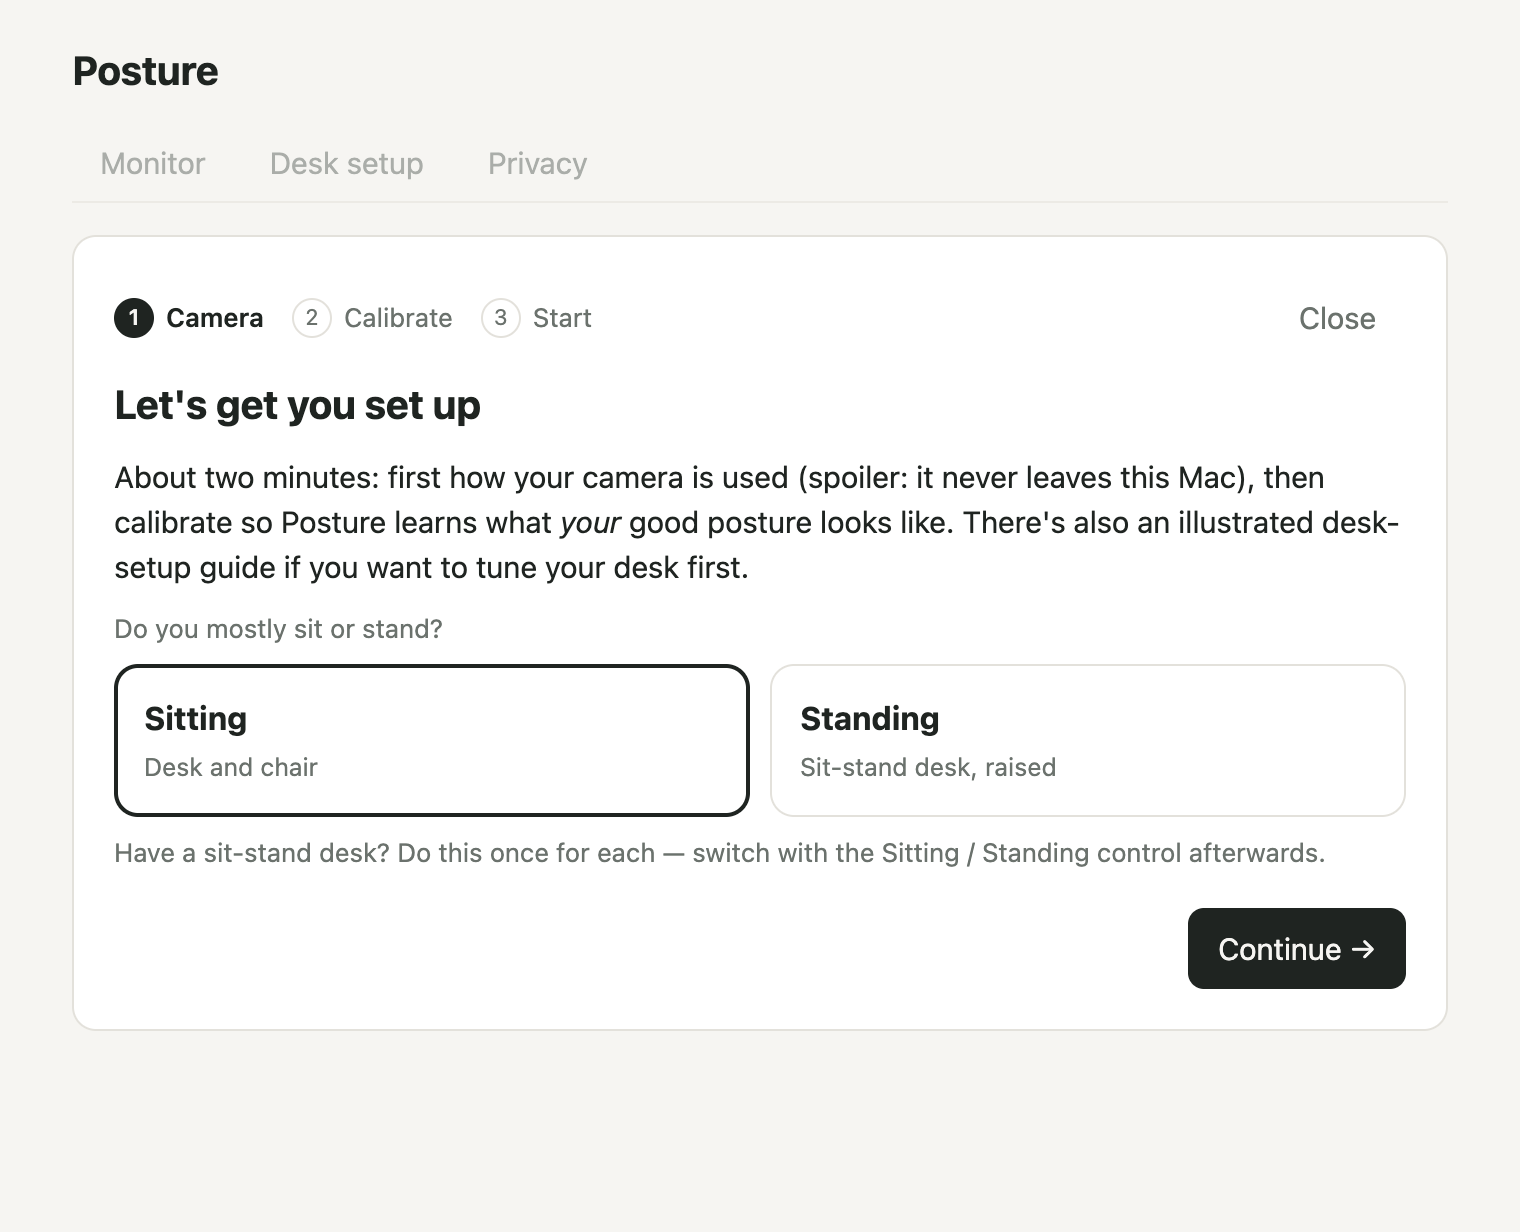
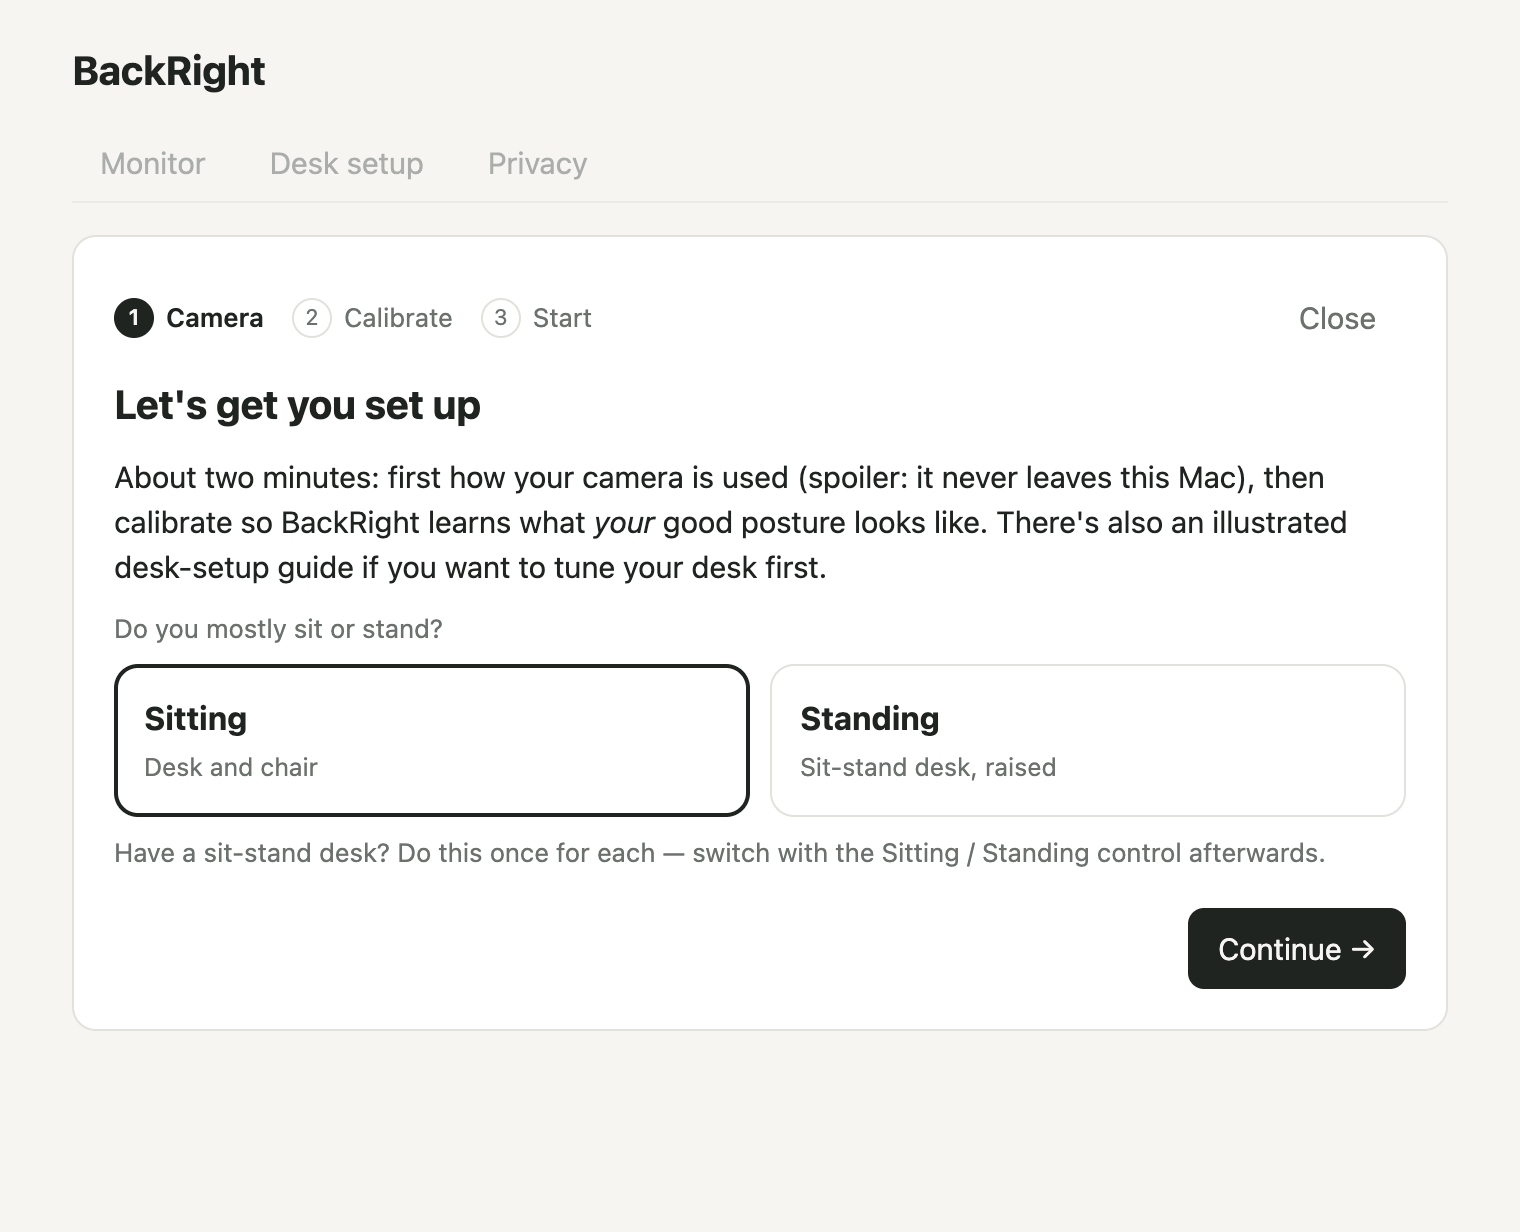
Rename the app to BackRight
Product name, window/tray/menu text, onboarding copy, bundle id (com.lylebaumgarten.backright),
BackRight.app, settings folder, scripts, docs and screenshots. Status words ("Good posture",
"Posture slipping") and the internal window.posture API are unchanged. Adds naming-consistency tests.

Changed region(s): [[0.0928, 0.401, 0.9276, 0.4935], [0.0618, 0.0308, 0.1855, 0.0925]]

diff --git a/src/renderer/onboarding.js b/src/renderer/onboarding.js
@@ -82,7 +82,7 @@ export function createWizard(root, api) {
     else if (id === "welcome") {
       html = `${top()}
         <h2>Let's get you set up</h2>
-        <p class="lead">About two minutes: first how your camera is used (spoiler: it never leaves this Mac), then calibrate so Posture learns what <i>your</i> good posture looks like. There's also an illustrated desk-setup guide if you want to tune your desk first.</p>
+        <p class="lead">About two minutes: first how your camera is used (spoiler: it never leaves this Mac), then calibrate so BackRight learns what <i>your</i> good posture looks like. There's also an illustrated desk-setup guide if you want to tune your desk first.</p>
         <p class="hint">Do you mostly sit or stand?</p>
         <div class="choice" role="group">
           <button data-mode="sit" class="${mode === "sit" ? "on" : ""}"><b>Sitting</b><small>Desk and chair</small></button>
@@ -97,7 +97,7 @@ export function createWizard(root, api) {
       html = `${top()}
         <p class="eyebrow">Before we use the camera</p>
         <h2>Your camera stays on this Mac</h2>
-        <p class="lead">Posture watches your head and shoulders through the webcam. Here's exactly what happens to the video:</p>
+        <p class="lead">BackRight watches your head and shoulders through the webcam. Here's exactly what happens to the video:</p>
         <ul class="promises">
           <li><span class="tick">✓</span><div><b>Analysed here, never uploaded.</b> A small pose model runs inside this app. There's no account and no server.</div></li>
           <li><span class="tick">✓</span><div><b>Never saved.</b> Each frame is checked in memory, then thrown away. Only a few numbers (like head height) are kept for a moment.</div></li>

diff --git a/src/main/tray-state.js b/src/main/tray-state.js
@@ -20,13 +20,13 @@ const ICON = { warn: "trayWarn", active: "trayActive", snooze: "traySnoozeTempla
 
 function trayText(state, { monitoring, calibrated, idle, snoozeUntilLabel = "" }) {
   switch (state) {
-    case "warn": return { label: "Posture slipping", tip: "Posture — slipping, sit tall" };
-    case "active": return { label: "Monitoring", tip: "Posture — monitoring" };
-    case "snooze": return { label: `Nudges snoozed until ${snoozeUntilLabel}`, tip: `Posture — nudges snoozed until ${snoozeUntilLabel}` };
+    case "warn": return { label: "Posture slipping", tip: "BackRight — slipping, sit tall" };
+    case "active": return { label: "Monitoring", tip: "BackRight — monitoring" };
+    case "snooze": return { label: `Nudges snoozed until ${snoozeUntilLabel}`, tip: `BackRight — nudges snoozed until ${snoozeUntilLabel}` };
     default:
-      if (idle && monitoring) return { label: "Paused — screen locked", tip: "Posture — paused while the screen is locked" };
-      if (monitoring && !calibrated) return { label: "Calibrate to start", tip: "Posture — calibrate to start" };
-      return { label: "Not monitoring", tip: "Posture — not monitoring" };
+      if (idle && monitoring) return { label: "Paused — screen locked", tip: "BackRight — paused while the screen is locked" };
+      if (monitoring && !calibrated) return { label: "Calibrate to start", tip: "BackRight — calibrate to start" };
+      return { label: "Not monitoring", tip: "BackRight — not monitoring" };
   }
 }
 

diff --git a/src/main/main.js b/src/main/main.js
@@ -181,7 +181,7 @@ function snooze(minutes) {
 // ---- panel (control window; also hosts detection, so it must keep running when hidden) ----
 function createPanel() {
   panel = new BrowserWindow({
-    width: 760, height: 820, show: false, title: "Posture", backgroundColor: "#f6f5f2",
+    width: 760, height: 820, show: false, title: "BackRight", backgroundColor: "#f6f5f2",
     webPreferences: { preload: path.join(__dirname, "preload.js"), contextIsolation: true, sandbox: true, backgroundThrottling: false },
   });
   panel.loadURL("app://local/index.html");
@@ -259,7 +259,7 @@ function rebuildTray() {
     { label: "Sitting", type: "radio", checked: settings.mode === "sit", click: () => setMode("sit") },
     { label: "Standing", type: "radio", checked: settings.mode === "stand", click: () => setMode("stand") },
     { type: "separator" },
-    { label: "Open Posture…", click: showPanel },
+    { label: "Open BackRight…", click: showPanel },
     { label: "Quit", click: () => { app.isQuitting = true; app.quit(); } },
   ]));
 }

diff --git a/src/renderer/pill.html b/src/renderer/pill.html
@@ -2,7 +2,7 @@
 <html>
 <head>
 <meta charset="utf-8">
-<title>Posture reminder</title>
+<title>BackRight reminder</title>
 <style>
   html, body { margin:0; height:100%; background:transparent; overflow:hidden; user-select:none; -webkit-user-select:none;
                font:600 14px/1 system-ui,-apple-system,"Segoe UI",sans-serif; }
@@ -21,7 +21,7 @@
 <div id="pill">
   <span class="msg">Sit tall — head back, shoulders down</span>
   <button id="pause" title="Stop monitoring (camera off)">Pause</button>
-  <button id="settings" class="primary" title="Open Posture settings">Settings</button>
+  <button id="settings" class="primary" title="Open BackRight settings">Settings</button>
 </div>
 <script type="module" src="pill.js"></script>
 </body>

diff --git a/src/renderer/index.html b/src/renderer/index.html
@@ -3,13 +3,13 @@
 <head>
 <meta charset="utf-8">
 <meta name="viewport" content="width=device-width, initial-scale=1">
-<title>Posture</title>
+<title>BackRight</title>
 <link rel="stylesheet" href="style.css">
 </head>
 <body>
 <main>
   <header>
-    <h1>Posture</h1>
+    <h1>BackRight</h1>
     <div class="seg" id="modeSeg" role="group" aria-label="Posture mode">
       <button data-mode="sit">Sitting</button>
       <button data-mode="stand">Standing</button>

diff --git a/src/renderer/overlay.html b/src/renderer/overlay.html
@@ -2,7 +2,7 @@
 <html>
 <head>
 <meta charset="utf-8">
-<title>Posture overlay</title>
+<title>BackRight overlay</title>
 <style>
   html, body { margin:0; height:100%; background:transparent; overflow:hidden; pointer-events:none; user-select:none; }
   /* Each overlay window is one thin strip of the screen edge. #glow is sized to the *whole* screen and offset

diff --git a/README.md b/README.md
@@ -1,6 +1,6 @@
-# Posture
+# BackRight
 
-A small desktop app that watches your posture through the webcam and gives a faint, screen-wide nudge when you slip. Works for sitting and standing desks. **Everything runs on your computer — no images are stored or sent anywhere.**
+**BackRight** is a small desktop app that watches your posture through the webcam and gives a faint, screen-wide nudge when you slip. Works for sitting and standing desks. **Everything runs on your computer — no images are stored or sent anywhere.**
 
 > Status: early prototype (v0.1). Electron, macOS-first; Windows should work but is untested.
 
@@ -46,7 +46,7 @@ npm install     # also copies the MediaPipe runtime and downloads the pose model
 npm start
 ```
 
-**On macOS, install it as a real app:** `npm run app` builds a standalone `Posture.app` (own name, icon and camera permission, code bundled inside), installs it to `~/Applications`, and launches it. After that it lives in the Dock, Launchpad and Spotlight — closing the window leaves it running, and clicking the Dock icon brings the window back. Right-click its Dock icon → Options → Keep in Dock to pin it. `npm run dev:app` does the same without installing (runs `build/Posture.app`), `-- --debug` opens a DevTools port, `-- --rebuild` recreates the bundle (macOS will ask for camera access again). `npm start` runs the plain Electron binary, which macOS blames for camera access — avoid it for camera testing.
+**On macOS, install it as a real app:** `npm run app` builds a standalone `BackRight.app` (own name, icon and camera permission, code bundled inside), installs it to `~/Applications`, and launches it. After that it lives in the Dock, Launchpad and Spotlight — closing the window leaves it running, and clicking the Dock icon brings the window back. Right-click its Dock icon → Options → Keep in Dock to pin it. `npm run dev:app` does the same without installing (runs `build/BackRight.app`), `-- --debug` opens a DevTools port, `-- --rebuild` recreates the bundle (macOS will ask for camera access again). `npm start` runs the plain Electron binary, which macOS blames for camera access — avoid it for camera testing.
 
 Re-run `npm run app` after code changes to refresh the installed copy.
 
@@ -103,4 +103,4 @@ test/           Unit tests for the posture maths and privacy guardrails
 
 ## License
 
-MIT — see [LICENSE](LICENSE). Posture bundles Electron (MIT), MediaPipe Tasks Vision (Apache-2.0) and Google's BlazePose GHUM pose model (Apache-2.0); see [THIRD_PARTY_NOTICES.md](THIRD_PARTY_NOTICES.md).
+MIT — see [LICENSE](LICENSE). BackRight bundles Electron (MIT), MediaPipe Tasks Vision (Apache-2.0) and Google's BlazePose GHUM pose model (Apache-2.0); see [THIRD_PARTY_NOTICES.md](THIRD_PARTY_NOTICES.md).

diff --git a/THIRD_PARTY_NOTICES.md b/THIRD_PARTY_NOTICES.md
@@ -1,6 +1,6 @@
 # Third-party notices
 
-Posture's own code is MIT-licensed (see `LICENSE`). It is built on, and ships with, the following open-source
+BackRight's own code is MIT-licensed (see `LICENSE`). It is built on, and ships with, the following open-source
 components. Each remains under its own license.
 
 ## Electron — MIT
@@ -20,5 +20,5 @@ Google. Model card: https://storage.googleapis.com/mediapipe-assets/Model%20Card
 https://storage.googleapis.com/mediapipe-models/ by `npm run vendor`; it is not stored in this repository.
 Full license text: `LICENSES/Apache-2.0.txt`.
 
-The model card lists "any form of surveillance or identity recognition" as out of scope. Posture runs entirely on your
+The model card lists "any form of surveillance or identity recognition" as out of scope. BackRight runs entirely on your
 own computer, uses the model only to estimate your own head and shoulder position, and does not identify anyone.
